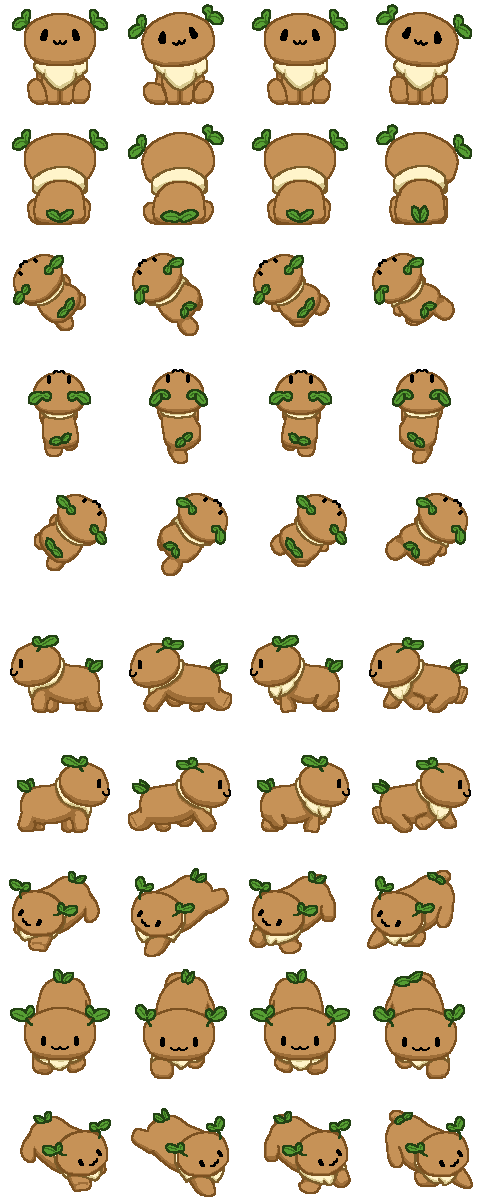
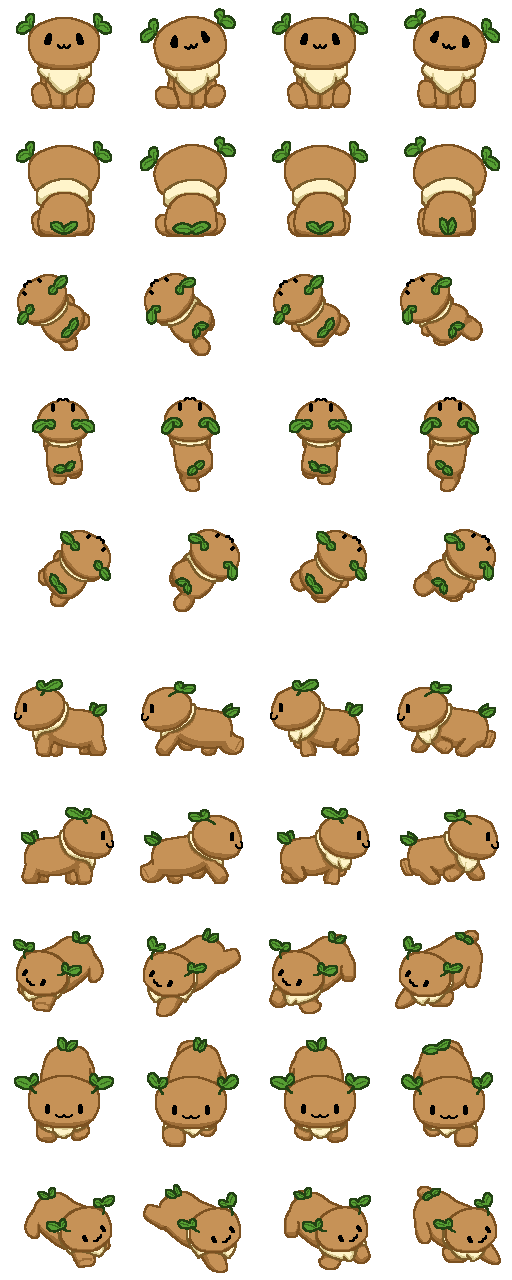
Mebukichi: change sprite size

diff --git a/Mebukichi/Mebukichi.user.js b/Mebukichi/Mebukichi.user.js
@@ -1,7 +1,7 @@
 // ==UserScript==
 // @name         Mebuki On The Mebukichi
 // @namespace    https://TakeAsh.net/
-// @version      2025-11-09_22:00
+// @version      2025-11-14_14:00
 // @description  call Mebukichi on Mebuki
 // @author       TakeAsh
 // @match        https://mebuki.moe/app
@@ -26,7 +26,7 @@
       'Front', 'Back', 'UpLeft', 'Up', 'UpRight',
       'Left', 'Right', 'DownLeft', 'Down', 'DownRight'
     );
-    static #sizeSprite = 120;
+    static #sizeSprite = 128;
     static #sprites = {};
     static #cycleMax = 4;
     static #roughness = 16;
